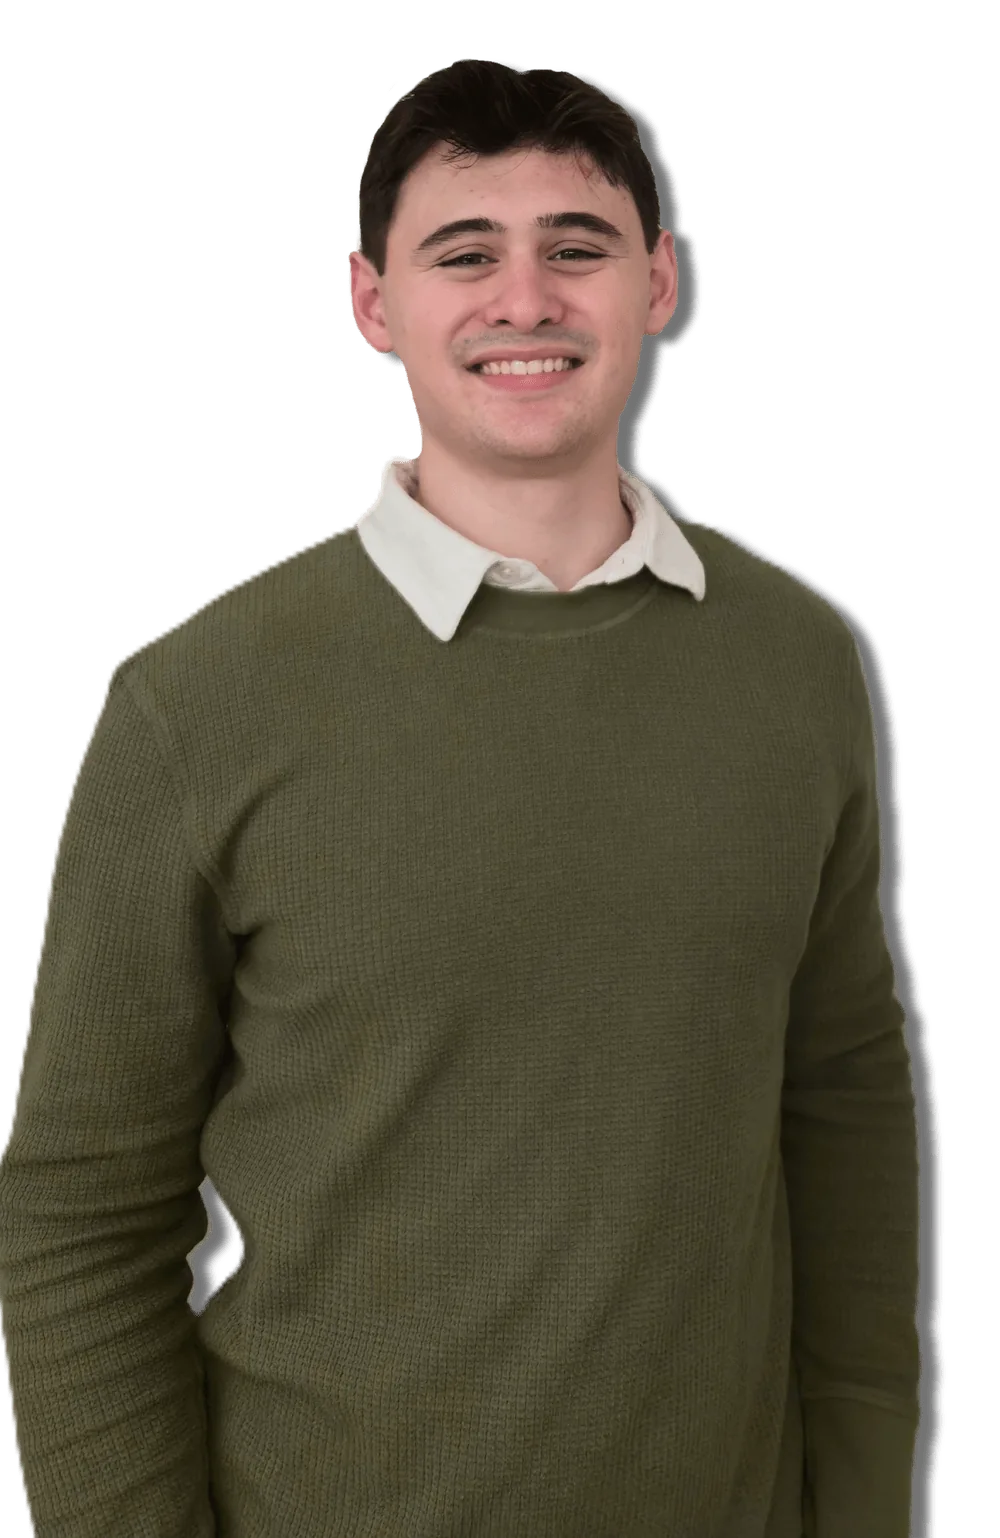
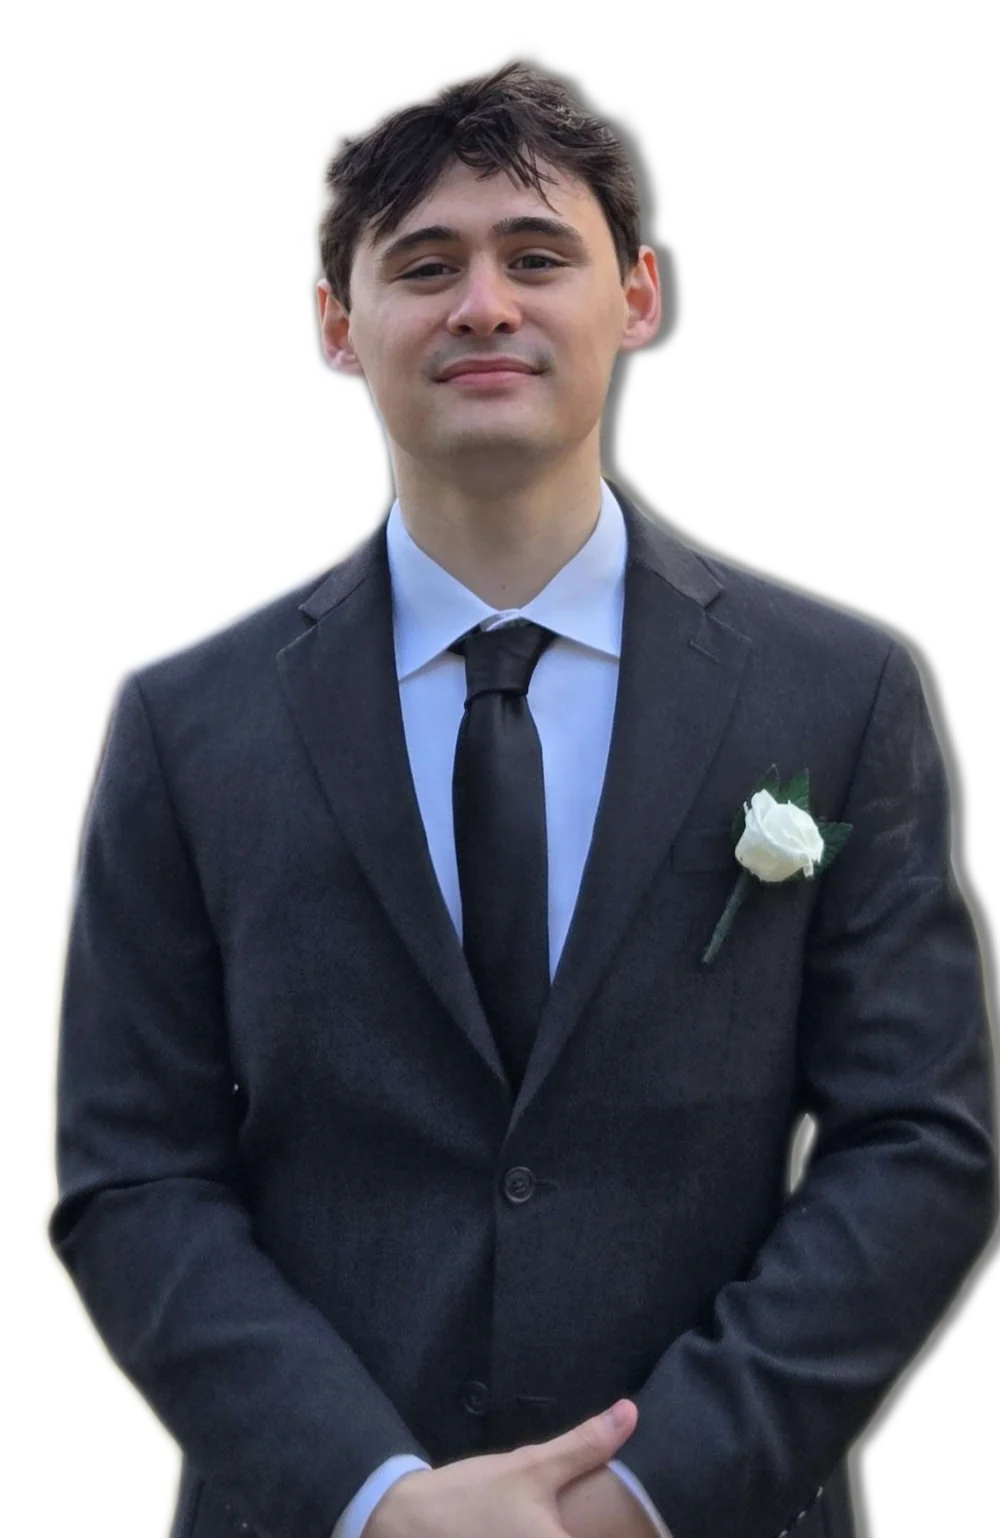
Update bio pics

diff --git a/src/bio/index.html b/src/bio/index.html
@@ -60,31 +60,31 @@
                 </article>
                 <div id="slideshow-2">
                     <picture class="show-mobile">
-                        <source media="(max-width: 389px)" srcset="/res/bio/bio-2/280-431.webp?v=1 1x, /res/bio/bio-2/500-769.webp?v=1 2x">
-                        <source media="(max-width: 1919px)" srcset="/res/bio/bio-2/280-431.webp?v=1 1x, /res/bio/bio-2/500-769.webp?v=1 2x">
-                        <source media="(max-width: 2559px)" srcset="/res/bio/bio-2/380-585.webp?v=1 1x, /res/bio/bio-2/500-769.webp?v=1 2x, /res/bio/bio-2/1000-1538.webp?v=1 4x">
-                        <source media="(max-width: 5599px)" srcset="/res/bio/bio-2/500-769.webp?v=1 1x, /res/bio/bio-2/1000-1538.webp?v=1 2x">
-                        <source media="(min-width: 5600px)" srcset="/res/bio/bio-2/1000-1538.webp?v=1">
-                        <img class="bio-img" src="/res/bio/bio-2/1000-1538.webp?v=1" alt="A photo of Travis Heavener smiling in a tan jacket and white T-shirt.">
+                        <source media="(max-width: 389px)" srcset="/res/bio/bio-2/280-431.webp?v=2 1x, /res/bio/bio-2/500-769.webp?v=2 2x">
+                        <source media="(max-width: 1919px)" srcset="/res/bio/bio-2/280-431.webp?v=2 1x, /res/bio/bio-2/500-769.webp?v=2 2x">
+                        <source media="(max-width: 2559px)" srcset="/res/bio/bio-2/380-585.webp?v=2 1x, /res/bio/bio-2/500-769.webp?v=2 2x, /res/bio/bio-2/1000-1538.webp?v=2 4x">
+                        <source media="(max-width: 5599px)" srcset="/res/bio/bio-2/500-769.webp?v=2 1x, /res/bio/bio-2/1000-1538.webp?v=2 2x">
+                        <source media="(min-width: 5600px)" srcset="/res/bio/bio-2/1000-1538.webp?v=2">
+                        <img class="bio-img" src="/res/bio/bio-2/1000-1538.webp?v=2" alt="A photo of Travis Heavener smiling in a tan jacket and white T-shirt.">
                     </picture>
                     <picture>
-                        <source media="(max-width: 389px)" srcset="/res/bio/bio-1/280-431.webp?v=1 1x, /res/bio/bio-1/500-769.webp?v=1 2x">
-                        <source media="(max-width: 1919px)" srcset="/res/bio/bio-1/280-431.webp?v=1 1x, /res/bio/bio-1/500-769.webp?v=1 2x">
-                        <source media="(max-width: 2559px)" srcset="/res/bio/bio-1/380-585.webp?v=1 1x, /res/bio/bio-1/500-769.webp?v=1 2x, /res/bio/bio-1/1000-1538.webp?v=1 4x">
-                        <source media="(max-width: 5599px)" srcset="/res/bio/bio-1/500-769.webp?v=1 1x, /res/bio/bio-1/1000-1538.webp?v=1 2x">
-                        <source media="(min-width: 5600px)" srcset="/res/bio/bio-1/1000-1538.webp?v=1">
-                        <img class="bio-img" src="/res/bio/bio-1/1000-1538.webp?v=1" alt="A photo of Travis Heavener smiling in a white polo and green sweater.'">
+                        <source media="(max-width: 389px)" srcset="/res/bio/bio-1/280-431.webp?v=2 1x, /res/bio/bio-1/500-769.webp?v=2 2x">
+                        <source media="(max-width: 1919px)" srcset="/res/bio/bio-1/280-431.webp?v=2 1x, /res/bio/bio-1/500-769.webp?v=2 2x">
+                        <source media="(max-width: 2559px)" srcset="/res/bio/bio-1/380-585.webp?v=2 1x, /res/bio/bio-1/500-769.webp?v=2 2x, /res/bio/bio-1/1000-1538.webp?v=2 4x">
+                        <source media="(max-width: 5599px)" srcset="/res/bio/bio-1/500-769.webp?v=2 1x, /res/bio/bio-1/1000-1538.webp?v=2 2x">
+                        <source media="(min-width: 5600px)" srcset="/res/bio/bio-1/1000-1538.webp?v=2">
+                        <img class="bio-img" src="/res/bio/bio-1/1000-1538.webp?v=2" alt="A photo of Travis Heavener smiling in a white polo and green sweater.'">
                     </picture>
                 </div>
             </section>
             <section>
                 <picture class="hide-mobile">
-                    <source media="(max-width: 389px)" srcset="/res/bio/bio-2/280-431.webp?v=1 1x, /res/bio/bio-2/500-769.webp?v=1 2x">
-                    <source media="(max-width: 1919px)" srcset="/res/bio/bio-2/280-431.webp?v=1 1x, /res/bio/bio-2/500-769.webp?v=1 2x">
-                    <source media="(max-width: 2559px)" srcset="/res/bio/bio-2/380-585.webp?v=1 1x, /res/bio/bio-2/500-769.webp?v=1 2x, /res/bio/bio-2/1000-1538.webp?v=1 4x">
-                    <source media="(max-width: 5599px)" srcset="/res/bio/bio-2/500-769.webp?v=1 1x, /res/bio/bio-2/1000-1538.webp?v=1 2x">
-                    <source media="(min-width: 5600px)" srcset="/res/bio/bio-2/1000-1538.webp?v=1">
-                    <img class="bio-img" src="/res/bio/bio-2/1000-1538.webp?v=1" alt="A photo of Travis Heavener smiling in a tan jacket and white T-shirt.">
+                    <source media="(max-width: 389px)" srcset="/res/bio/bio-2/280-431.webp?v=2 1x, /res/bio/bio-2/500-769.webp?v=2 2x">
+                    <source media="(max-width: 1919px)" srcset="/res/bio/bio-2/280-431.webp?v=2 1x, /res/bio/bio-2/500-769.webp?v=2 2x">
+                    <source media="(max-width: 2559px)" srcset="/res/bio/bio-2/380-585.webp?v=2 1x, /res/bio/bio-2/500-769.webp?v=2 2x, /res/bio/bio-2/1000-1538.webp?v=2 4x">
+                    <source media="(max-width: 5599px)" srcset="/res/bio/bio-2/500-769.webp?v=2 1x, /res/bio/bio-2/1000-1538.webp?v=2 2x">
+                    <source media="(min-width: 5600px)" srcset="/res/bio/bio-2/1000-1538.webp?v=2">
+                    <img class="bio-img" src="/res/bio/bio-2/1000-1538.webp?v=2" alt="A photo of Travis Heavener smiling in a tan jacket and white T-shirt.">
                 </picture>
                 <article>
                     <p>
